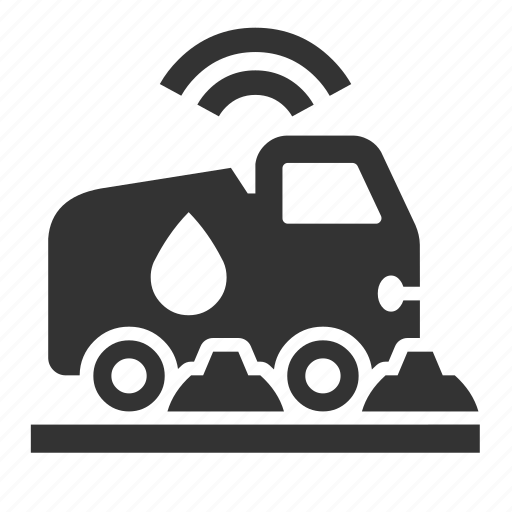
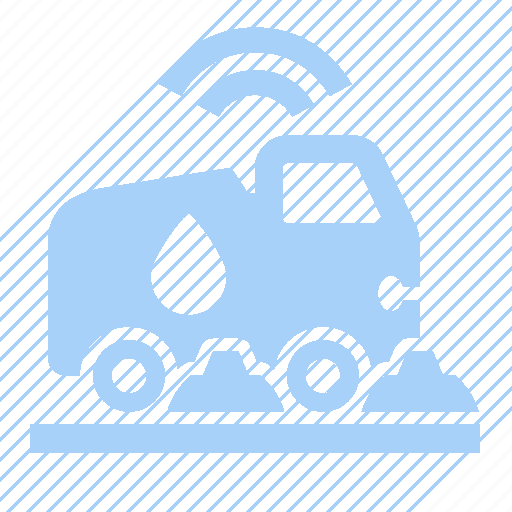
added cropped image for 404 page

diff --git a/client/src/App.js b/client/src/App.js
@@ -1,5 +1,5 @@
 import React, { useState } from 'react';
-import { BrowserRouter as Router, Route } from 'react-router-dom';
+import { BrowserRouter as Router, Route, Switch } from 'react-router-dom';
 import { ApolloClient, InMemoryCache, ApolloProvider, createHttpLink } from '@apollo/client';
 import { ChakraProvider } from '@chakra-ui/react';
 import { setContext } from '@apollo/client/link/context';
@@ -36,22 +36,24 @@ function App() {
   const [showItem, setShowItem] = useState(false);
 
   return (
-    <ApolloProvider client={client}>
-      <ChakraProvider>
-        <div className="App">
-          <Router>
-            <Navbar />
-            <Route exact path='/' component={Homepage} />
-            <Route exact path='/sweeper' component={Sweeper} />
-            <Route exact path='/snow' component={Snow} />
-            <Route exact path='/me' component={Profile} />
-            <Route exact path='/login' component={LoginSignup} />
-            <Route component={NotFound} />
-            <Footer />
-          </Router>
-        </div>
-      </ChakraProvider>
-    </ApolloProvider>
+    <React.StrictMode>
+      <ApolloProvider client={client}>
+        <ChakraProvider>
+          <div className="App">
+            <Router>
+              <Navbar />
+                <Route exact path='/' component={Homepage} />
+                <Route exact path='/sweeper' component={Sweeper} />
+                <Route exact path='/snow' component={Snow} />
+                <Route exact path='/me' component={Profile} />
+                <Route exact path='/login' component={LoginSignup} />
+                <Route component={NotFound} />
+              <Footer />
+            </Router>
+          </div>
+        </ChakraProvider>
+      </ApolloProvider>
+    </React.StrictMode>
   );
 }
 

diff --git a/client/src/App.css b/client/src/App.css
@@ -491,6 +491,22 @@ h4 {
   font-family: var(--link-font);
 }
 
+/* 404  */
+
+.notfound-wrapper {
+  display: flex;
+  flex-direction: column;
+  justify-content: center;
+  align-items: center;
+  height: 90vh;
+  background: var(--blue-gradient);
+}
+
+.notfound-img {
+  width: 170px;
+  height: auto;
+}
+
 @media all and (max-width: 915px) {
   .sweeper-form-wrapper,
   .sweeper-data-output-wrapper,

diff --git a/client/src/pages/NotFound/NotFound.js b/client/src/pages/NotFound/NotFound.js
@@ -3,7 +3,11 @@ import { Link } from 'react-router-dom';
 
 const NotFound = () => {
   return (
-    <div></div>
+    <div className='notfound-wrapper'>
+      <div className='notfound-content'>
+        <img className='notfound-img' src={require('../../assets/ogsweeper2.png')}></img>
+      </div>
+    </div>
   );
 };
 
